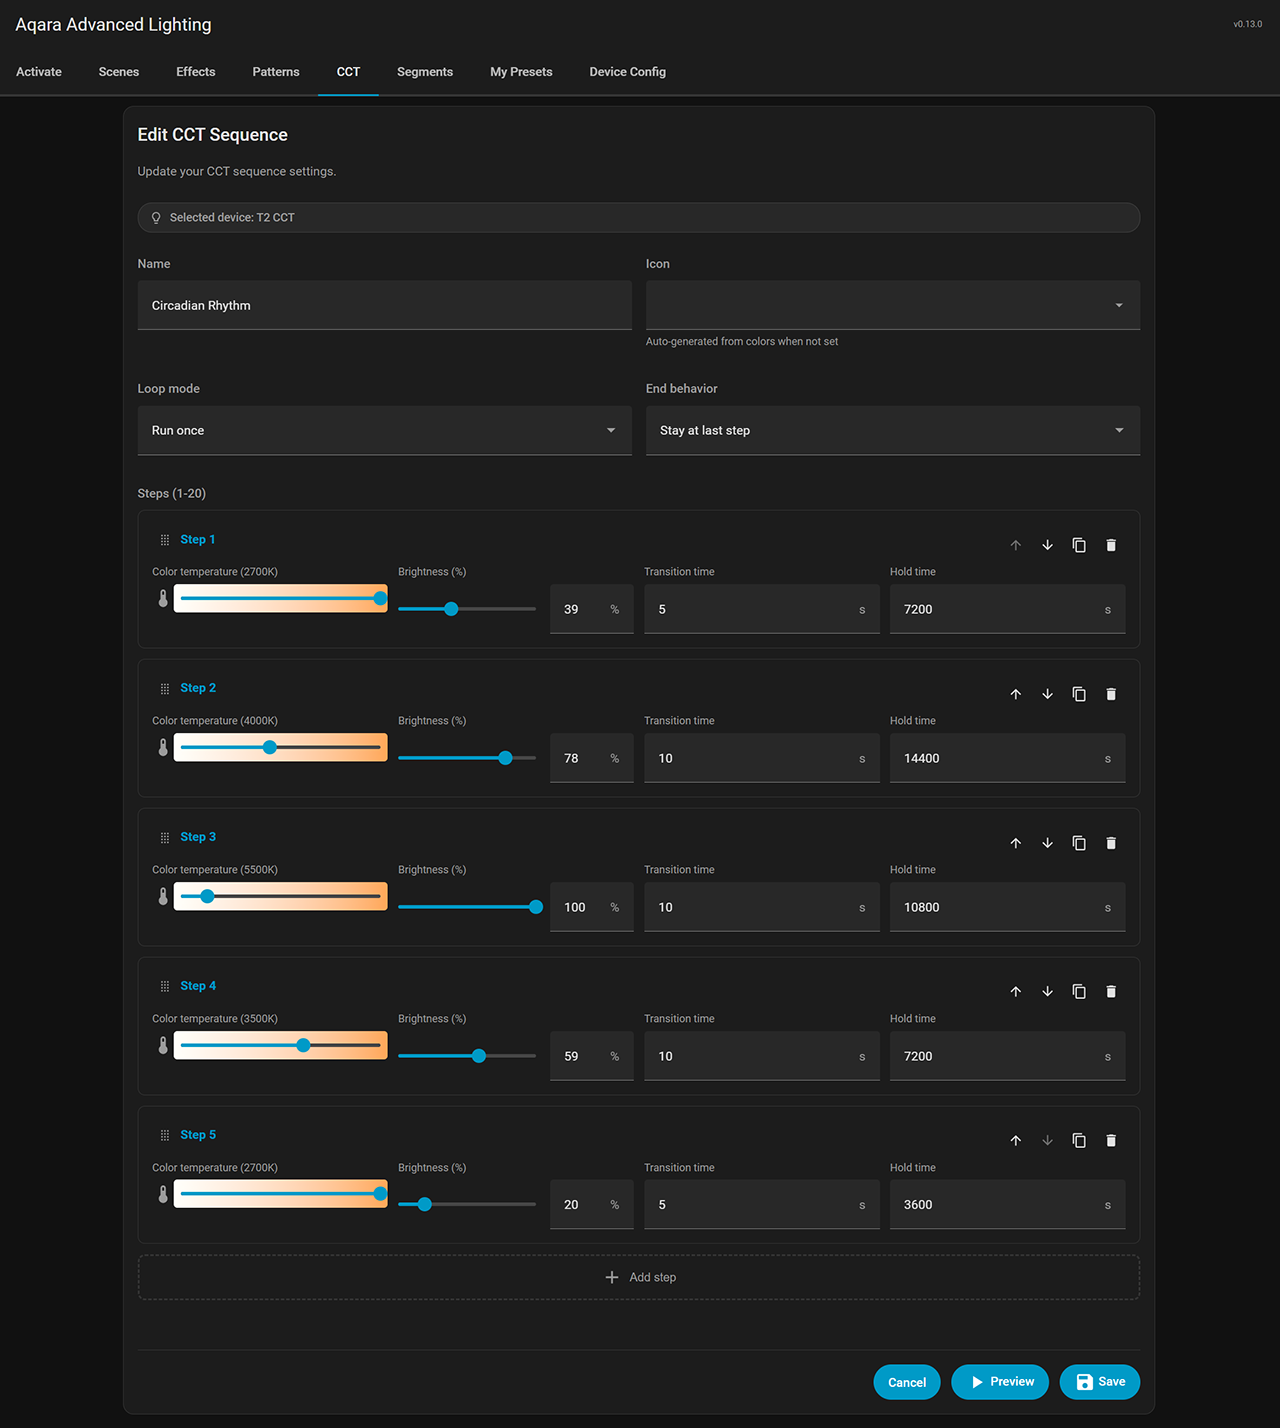
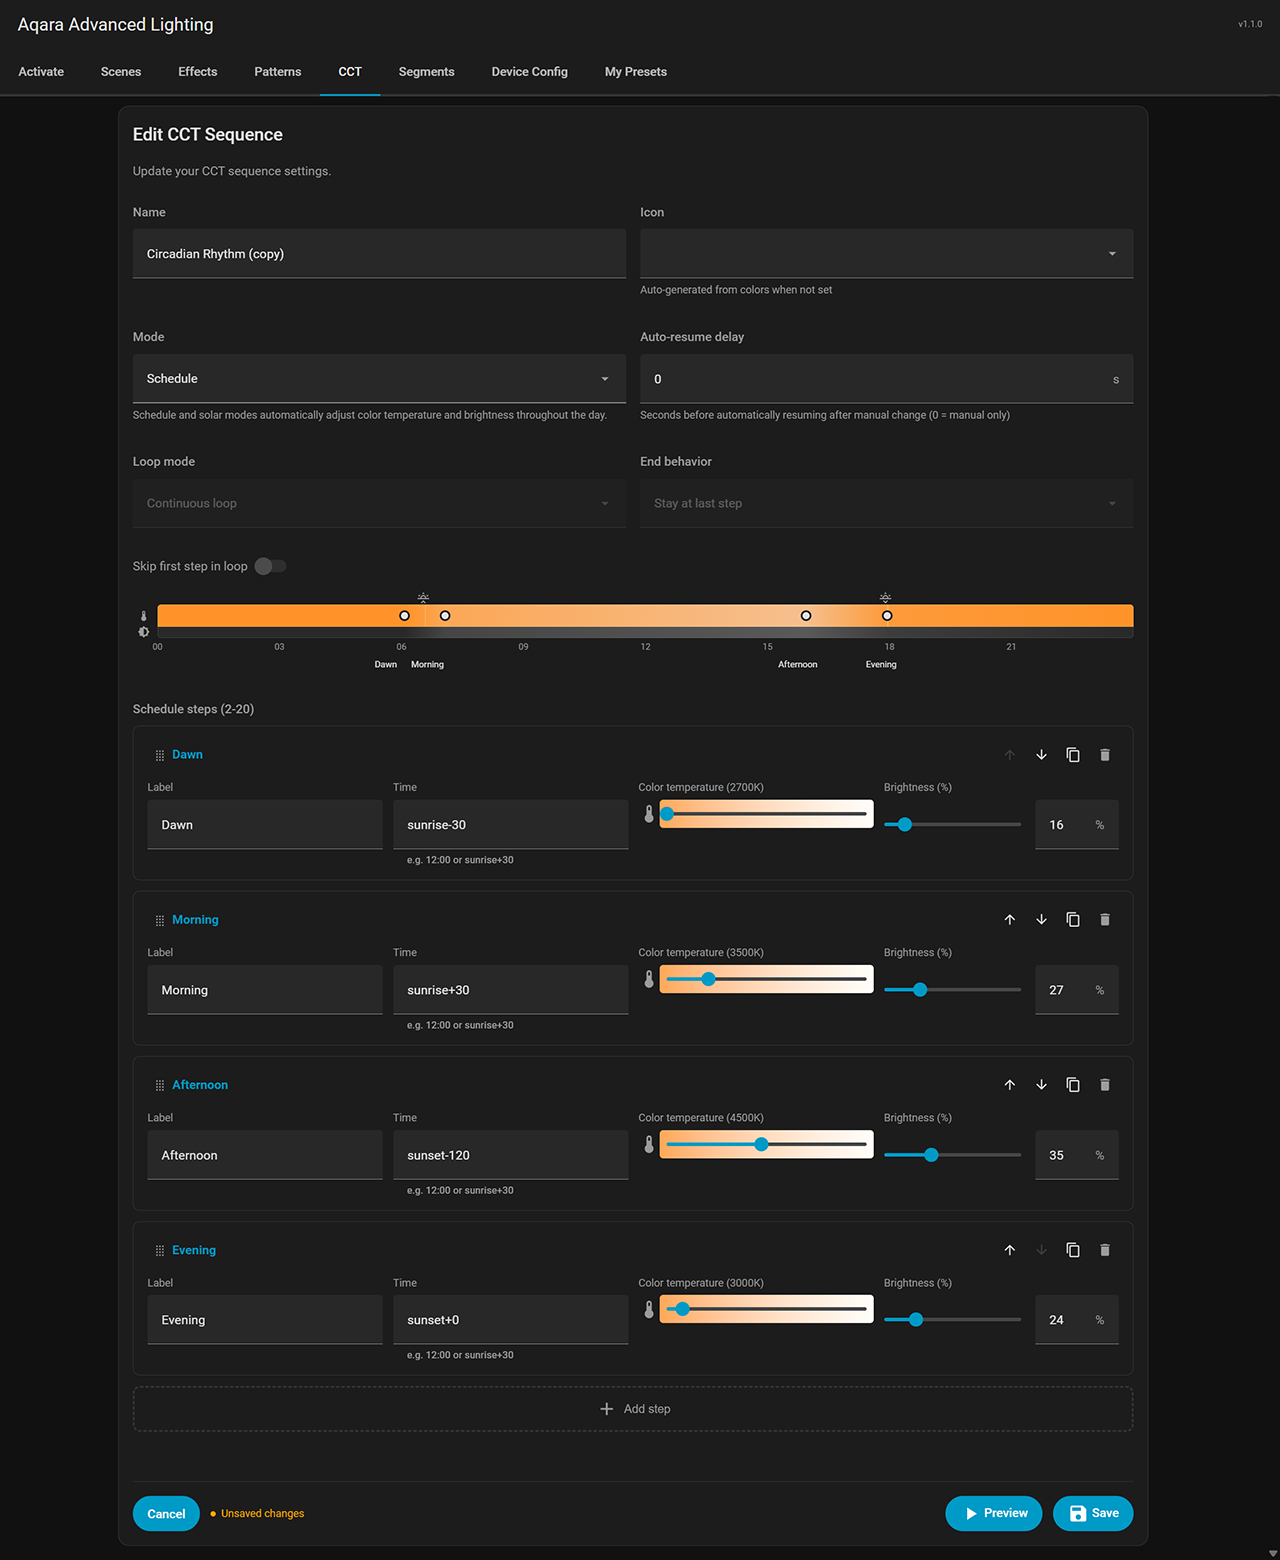
Update changelog and release notes

diff --git a/RELEASE_NOTES.md b/RELEASE_NOTES.md
@@ -1,98 +1,79 @@
-# Aqara Advanced Lighting v1.0.0
+# Aqara Advanced Lighting v1.1.0
 
 ## Upgrade Instructions
 
-**Upgrading from v0.13.x:**
+**Upgrading from v1.0.0:**
 
-1. Update via HACS to v1.0.0
+1. Update via HACS to v1.1.0
 2. Restart Home Assistant
 3. Clear browser cache (Ctrl+Shift+R or Cmd+Shift+R), clear HA app cache
 
 Your existing configuration, presets, and favorites are automatically preserved.
 
-*Note: For users of Zigbee2MQTT, it is recommended to update to Z2M v2.9.0, that release contains optimizations for effect and segment payloads.*
-
 ---
 
 ### What's New
 
-Version 1.0.0 is the first stable release. It includes full Home Assistant 2026.3 compatibility, security hardening, a major UI overhaul with native HA components and accessibility support, expanded diagnostics, and significant backend refactoring.
+Version 1.1.0 adds solar and schedule-based adaptive circadian CCT sequences, capability-aware light adaptation for any Home Assistant light, and a new more comprehensive override detection system.
+
+### Schedule/Solar Mode for Adaptive CCT Sequences
+
+**Time-of-day schedule mode and sun-elevation solar mode**
+
+- Schedule steps use fixed times (12:00) or sun-relative times (sunrise+30, sunset-60)
+- Solar timeline maps elevation to time using sinusoidal sun trajectory with real sunrise/sunset positions
+- Automatic interpolation between steps on a 24-hour cycle
+- Dual-track timeline preview showing color temperature and brightness with step markers
+- New backend services `start_circadian_mode` and `stop_circadian_mode`
+- Active circadian sequences persist across Home Assistant restarts
+
+### Capability-Aware Light Adaptation
+
+**Imporved support for non-Aqara lights in dynamic scenes and CCT sequences**
+
+- Capability profiles classify lights as full-color, CCT-only, brightness-only, or on/off-only
+- Service calls adapted at runtime using XY-to-CCT conversion and color temp clamping
+- Software transition opt-in for non-Aqara lights via device config panel
+- Entity chips with capability badges on running scene cards
+
+### Override Detection System
+
+**Context-based override detection with per-attribute control for solar and schedule sequences**
+
+- Detects overrides from service call data before state changes arrive
+- Context-only detection replaces grace window system
+- Per-attribute change detection with hardware drift tolerance
+- Non-HA drift detection for changes made outside Home Assistant
+- Bare turn-on adaptation fills unspecified attributes with solar/schedule values
+- Per-attribute pause indicators in frontend
+
+### Schedule/Solar CCT Persistence
+
+- Running solar and schedule sequences persist across Home Assistant restarts
+- Sequences are restored after entities are registered on startup
 
 ### Improvements
 
-#### **Restore State End Behavior for Sequences**
-
-**CCT and segment sequences can now restore lights to their pre-sequence state**
-
-- New "restore state" end behavior for both CCT and segment sequences
-- Captures light state before sequence starts and restores it on completion
-- State capture and restore also now works with cancel and stop-preview across all editors
-
-#### **Expanded Diagnostics**
-
-- Added diagnostics for segment sequences, music sync, entity controller, and all stores
-
-### Home Assistant 2026.3 Compatibility
-
-- Migrated all MWC (Material Web Components) to native HA components
-- Migrated `ha-dialog` to 2026.3 API with backwards compatibility for 2026.2
-- Replaced custom form controls with HA native components
-- Replaced deprecated mired attributes with kelvin
-- Added brand icons and logos for HA 2026.3 brand registry
-
-### Security
-
-- Fixed SSRF vulnerability in image color extractor URL fetch
-- Hardened all API endpoints and MQTT input handling
-- Added input validation and storage limits across API and backend
-
-### UI/UX Improvements
-
-- Redesigned segement selector
-- Converted custom modals to `ha-dialog`
-- Redesigned instance cards and active preset cards
-- Improved mobile layout and touch support
-- Added ARIA attributes across all frontend components for screen reader support
-- Replace add-favorites button with save bar
+- Proactive adaptation: immediate value application on resume and turn-on
+- Schedule/Solar off/on resilience: skip updates while lights are off, force-apply on turn-on
+- Per-preset auto-resume delay (moved from global to per-preset)
+- Turn off light end behavior for dynamic scenes
+- Skip first step in loop for CCT sequences
+- Added Power Nap CCT sequence preset
+- Selective user preset exports
 
 ### Bug Fixes
 
-- Fixed CCT sequence not affecting T1 Strips in RGB mode
-- Fixed CCT editor loop count field not showing when loop mode is count
-- Fixed zone selector event leak
-- Fixed `start_dynamic_scene` service not finding built-in presets
-- Fixed `loop_mode` value mismatch between frontend editors and backend schema
-- Fix false external-pause triggers during long transitions and holds
-
-### Code Quality and Refactoring
-
-#### **Backend Refactoring**
-
-- Extracted `BaseStore` to consolidate shared storage infrastructure
-- Extracted `BaseSequenceManager` to eliminate duplicate sequence lifecycle code
-- Consolidated duplicate CCT transition and light control into `transition_utils`
-- Refactored `services.py`: extracted schema helpers, cached segment count, deduplicated lookups
-- Consolidated duplicate RGB-to-XY conversion into single source
-- Deduplicated shared logic
-
-#### **Frontend Refactoring**
-
-- Extracted shared editor constants, localization, and form CSS into `editor-constants.ts`
-- Added frontend performance optimizations and type safety improvements
-
-### Breaking Changes
-
-None. This release is fully backward compatible with v0.13.x.
-
-### Compatibility
-
-- Home Assistant 2026.2 and 2026.3 supported
-- All existing presets, favorites, and configurations preserved
-- No configuration changes required
+- Fix Loop N Times count field in Scenes tab
+- Fix Signed URL preset export with selective filtering
+- Fix Preset export using signed URL WebSocket command
+- Fix Auth errors on API calls
+- Fix active presets panel not updating after activation
+- Fix last-half, first-third, last-third keywords to parse_segment_range
 
 ## Full Changelog
 
-[View full changelog](https://github.com/absent42/Aqara-Advanced-Lighting/blob/main/CHANGELOG.md#100---2026-02-28)
+[View full changelog](https://github.com/absent42/Aqara-Advanced-Lighting/blob/main/CHANGELOG.md#110---2026-03-09)
 
 ## Support
 

diff --git a/CHANGELOG.md b/CHANGELOG.md
@@ -2,6 +2,80 @@
 
 All notable changes to the Aqara Advanced Lighting integration will be documented in this file.
 
+## [1.1.0] - 2026-03-09
+
+### What's New
+
+
+Version 1.1.0 adds solar and schedule-based adaptive circadian CCT sequences, capability-aware light adaptation for any Home Assistant light, and a new more comprehensive override detection system.
+
+### Features
+
+#### **Schedule Mode for Adaptive CCT Sequences**
+
+**Time-of-day schedule mode as an intuitive alternative to sun-elevation solar mode**
+
+  - Schedule steps use fixed times (12:00) or sun-relative times (sunrise+30, sunset-60)
+  - Solar timeline maps elevation to time using sinusoidal sun trajectory with real sunrise/sunset positions
+  - Automatic interpolation between steps on a 24-hour cycle
+  - Dual-track timeline preview showing color temperature and brightness with step markers
+  - New backend services `start_circadian_mode` and `stop_circadian_mode`
+  - Active circadian sequences persist across Home Assistant restarts
+
+#### **Capability-Aware Light Adaptation**
+
+**Imporved support for non-Aqara lights in dynamic scenes and CCT sequences**
+
+  - Capability profiles classify lights as full-color, CCT-only, brightness-only, or on/off-only
+  - Service calls adapted at runtime using XY-to-CCT conversion and color temp clamping
+  - Software transition opt-in for non-Aqara lights via device config panel
+  - Entity chips with capability badges on running scene cards
+
+#### **Override Detection System**
+
+**Context-based override detection with per-attribute control for solar and schedule sequences**
+
+  - Service call listener detects overrides from EVENT_CALL_SERVICE data before state changes arrive
+  - Context-only detection replaces grace window system -- integration commands tagged via Context(parent_id)
+  - Per-attribute change detection with hardware drift tolerance (brightness delta <= 5, color_temp delta <= 50K)
+  - Non-HA drift detection compares entity state against last-applied values with wider thresholds
+  - Bare turn-on adaptation -- parameterized turn-on calls from off state override specified attributes while solar/schedule values fill the rest
+  - Per-attribute pause indicators in frontend for all card types
+  - Override detection controls split into a separate collapsible section in settings
+
+#### **Solar CCT Persistence**
+
+**Solar and schedule sequences now persist across Home Assistant restarts**
+
+  - Running sequences preserved on shutdown and restored on startup after entities are registered
+  - Per-instance storage for sequence state
+
+### Improvements
+
+  - Proactive adaptation: immediate value application on resume and turn-on
+  - Schedule/Solar off/on resilience: skip updates while lights are off, force-apply on turn-on
+  - Per-preset auto-resume delay (moved from global to per-preset)
+  - Turn off light end behavior for dynamic scenes
+  - Skip first step in loop for CCT sequences
+  - Added Power Nap CCT sequence preset
+  - Selective user preset exports
+### Bug Fixes
+
+  - Fix Loop N Times count field in Scenes tab
+  - Fix Signed URL preset export with selective filtering
+  - Fix Preset export using signed URL WebSocket command
+  - Fix Auth errors on API calls
+  - Fix active presets panel not updating after activation
+  - Fix last-half, first-third, last-third keywords to parse_segment_range
+
+### Code Quality
+
+  - Added entity controller test infrastructure
+  - Added OverrideAttributes IntFlag and override control mode constant
+  - 60+ new tests covering schedule mode, capability detection, override detection, and adaptation
+
+---
+
 ## [1.0.0] - 2026-02-28
 
 ### What's New
@@ -1760,3 +1834,4 @@ One click HACS cutton
 [0.13.0]: https://github.com/absent42/Aqara-Advanced-Lighting/releases/tag/v0.13.0
 [0.13.1]: https://github.com/absent42/Aqara-Advanced-Lighting/releases/tag/v0.13.1
 [1.0.0]: https://github.com/absent42/Aqara-Advanced-Lighting/releases/tag/v1.0.0
+[1.1.0]: https://github.com/absent42/Aqara-Advanced-Lighting/releases/tag/v1.1.0

diff --git a/README.md b/README.md
@@ -63,9 +63,9 @@ See the [Getting started guide](docs/getting-started.md) for detailed installati
 | ![Aqara Advanced Lighting Panel](https://raw.githubusercontent.com/absent42/Aqara-Advanced-Lighting/refs/heads/main/images/activate.png) | ![Aqara Advanced Lighting Editors](https://raw.githubusercontent.com/absent42/Aqara-Advanced-Lighting/refs/heads/main/images/segments.png) |
 
 
-| Preset management                                                                                                 | Device configuration                                                                                             |
+| Adaptive Lighting                                                                                                 | Device configuration                                                                                             |
 | ------------------------------------------------------------------------------------------------------------------- | ------------------------------------------------------------------------------------------------------------------ |
-| ![Aqara Advanced Lighting Presets](https://raw.githubusercontent.com/absent42/Aqara-Advanced-Lighting/refs/heads/main/images/presets.png) | ![Aqara Advanced Lighting Config](https://raw.githubusercontent.com/absent42/Aqara-Advanced-Lighting/refs/heads/main/images/devices.png) |
+| ![Aqara Advanced Lighting Adaptive](https://raw.githubusercontent.com/absent42/Aqara-Advanced-Lighting/refs/heads/main/images/cct.png) | ![Aqara Advanced Lighting Config](https://raw.githubusercontent.com/absent42/Aqara-Advanced-Lighting/refs/heads/main/images/devices.png) |
 
 ## Documentation
 
